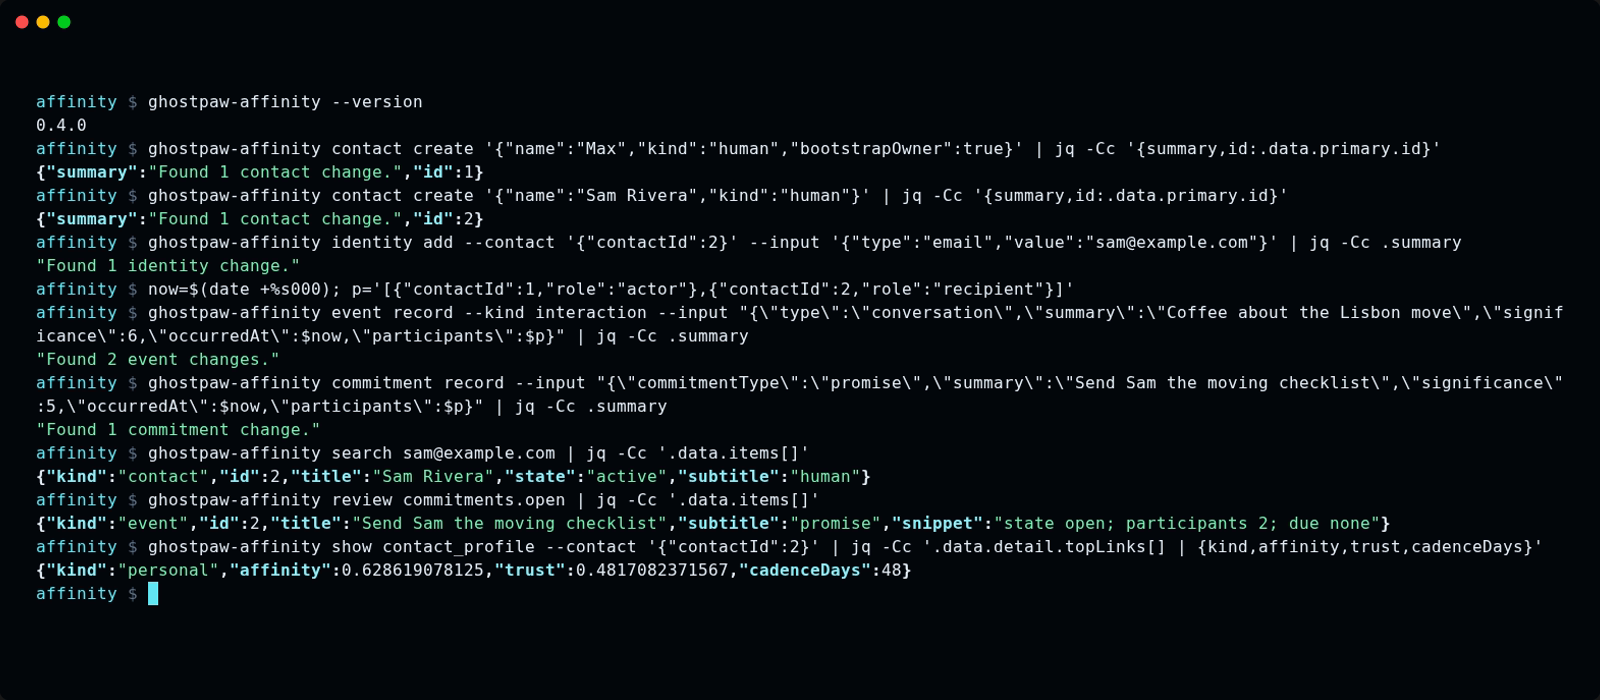
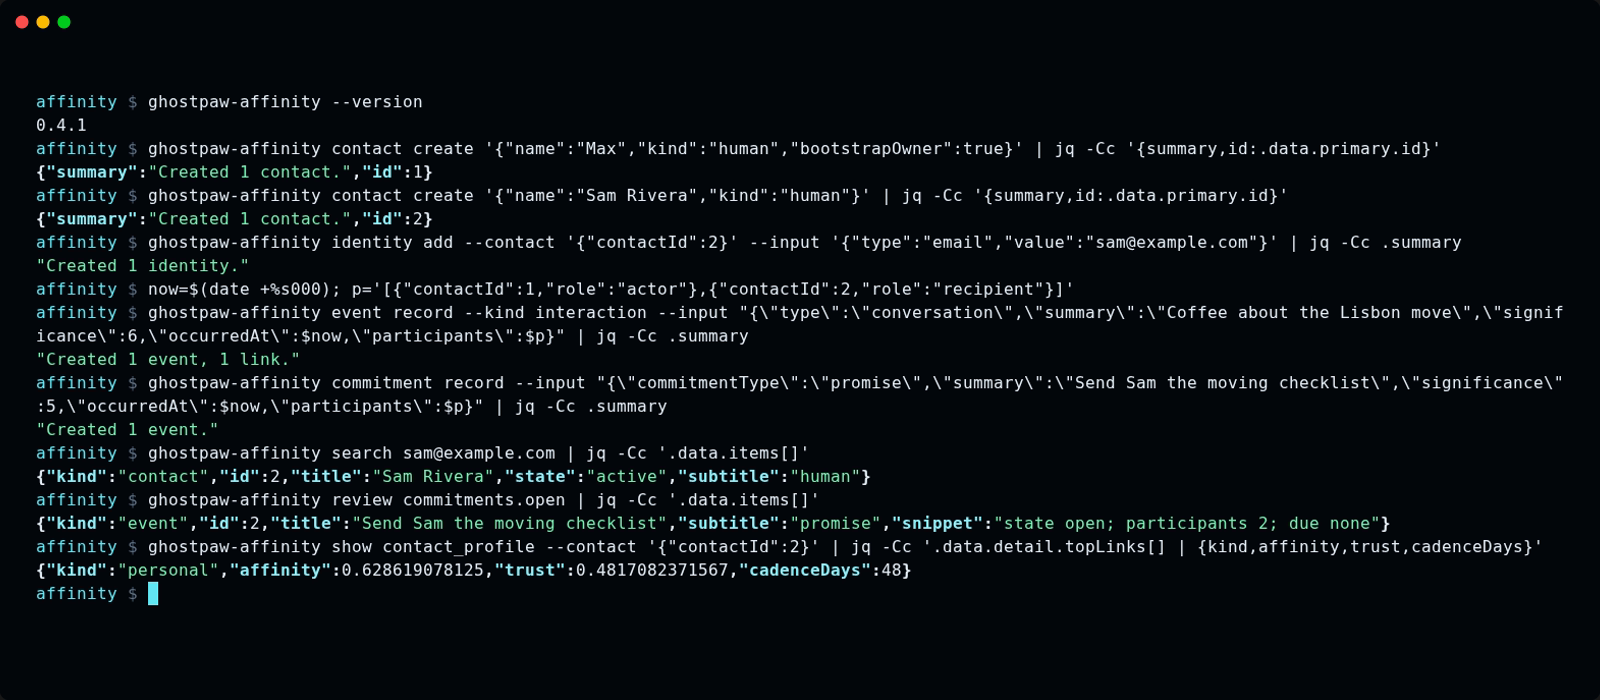
docs: re-record the terminal session with 0.4.1
Mutation summaries now name what changed, so the screenshot, GIF and
site image show the 0.4.1 output. Kicker and JSON-LD version 0.4.1.

diff --git a/site/release/index.html b/site/release/index.html
@@ -30,7 +30,7 @@
 <main>
   <section class=hero aria-labelledby=hero-title>
     <div class=hero-copy>
-      <p class=kicker><code>@ghostpaw/affinity</code> <span class=ver>0.4.0</span></p>
+      <p class=kicker><code>@ghostpaw/affinity</code> <span class=ver>0.4.1</span></p>
       <h1 id=hero-title>Who have you been meaning to call?</h1>
       <p class=lede>affinity keeps the people your agent deals with, the promises made to them and the dates that matter in your SQLite file. It works out who is drifting from what happened, so nobody has to keep a list of who to call.</p>
       <div class=install>
@@ -233,8 +233,8 @@ read.listOpenCommitments(db).length
       <li>The binaries are not code signed. macOS builds carry an ad-hoc signature, so a browser download needs <code>xattr -d com.apple.quarantine ghostpaw-affinity</code>. Windows may show a SmartScreen warning for a browser download.</li>
     </ul>
     <figure class=shot>
-      <a href=https://raw.githubusercontent.com/GhostPawJS/affinity/main/docs/assets/cli.png><img src=./cli-1600-0bab07bca30b.webp srcset="./cli-800-29cad44d3324.webp 800w, ./cli-1600-0bab07bca30b.webp 1600w" sizes="(min-width: 76rem) 72rem, 100vw" width=1600 height=700 decoding=async alt="Terminal session with ghostpaw-affinity 0.4.0: --version prints 0.4.0, contact create makes the owner Max and Sam Rivera, identity add attaches sam@example.com, event record and commitment record log a coffee and a promise, search by email finds Sam, review commitments.open lists the open promise, and show contact_profile prints the derived personal link with affinity 0.63, trust 0.48 and a 48 day cadence." loading=lazy></a>
-      <figcaption>A session with the 0.4.0 linux-x64 binary against a fresh database, output piped through jq. Open the image for full size.</figcaption>
+      <a href=https://raw.githubusercontent.com/GhostPawJS/affinity/main/docs/assets/cli.png><img src=./cli-1600-40372231f5df.webp srcset="./cli-800-ea999d0be183.webp 800w, ./cli-1600-40372231f5df.webp 1600w" sizes="(min-width: 76rem) 72rem, 100vw" width=1600 height=700 decoding=async alt="Terminal session with ghostpaw-affinity 0.4.1: --version prints 0.4.1, contact create makes the owner Max and Sam Rivera, identity add attaches sam@example.com, event record and commitment record log a coffee and a promise, search by email finds Sam, review commitments.open lists the open promise, and show contact_profile prints the derived personal link with affinity 0.63, trust 0.48 and a 48 day cadence." loading=lazy></a>
+      <figcaption>A session with the 0.4.1 linux-x64 binary against a fresh database, output piped through jq. Open the image for full size.</figcaption>
     </figure>
     <p class=links><a class=more href=https://github.com/GhostPawJS/affinity/releases/tag/v0.4.0>Release v0.4.0</a><a href=https://github.com/GhostPawJS/affinity#install>Install notes in the README</a><a href=https://cli.github.com/manual/gh_attestation_verify>gh attestation verify</a></p>
   </section>
@@ -287,6 +287,6 @@ const radar = read.listRadar(db);</code></pre>
 
 
 
-<script type=application/ld+json>{"@context":"https://schema.org","@graph":[{"@type":"SoftwareSourceCode","author":{"@id":"https://ghostpaw.dev/#org","@type":"Organization","name":"GhostPaw"},"codeRepository":"https://github.com/GhostPawJS/affinity","description":"@ghostpaw/affinity keeps contacts, promises and yearly dates in your own SQLite file and derives rank, trust and drift from what happened. Local MCP server, 12 tools, Node.js 24, zero dependencies, MIT.","license":"https://opensource.org/license/mit","name":"@ghostpaw/affinity","programmingLanguage":"TypeScript","runtimePlatform":"Node.js 24","version":"0.4.0"}]}</script><script>document.documentElement.classList.add("js");
+<script type=application/ld+json>{"@context":"https://schema.org","@graph":[{"@type":"SoftwareSourceCode","author":{"@id":"https://ghostpaw.dev/#org","@type":"Organization","name":"GhostPaw"},"codeRepository":"https://github.com/GhostPawJS/affinity","description":"@ghostpaw/affinity keeps contacts, promises and yearly dates in your own SQLite file and derives rank, trust and drift from what happened. Local MCP server, 12 tools, Node.js 24, zero dependencies, MIT.","license":"https://opensource.org/license/mit","name":"@ghostpaw/affinity","programmingLanguage":"TypeScript","runtimePlatform":"Node.js 24","version":"0.4.1"}]}</script><script>document.documentElement.classList.add("js");
 </script><script type=module>var g=[{rows:[{k:"Jun",v:"0.347 · drifting",w:.8674999999999999,t:"violet"},{k:"Ada",v:"0.124 · routine",w:.31},{k:"Ren",v:"0.000 · routine",w:0},{k:"Open promises",v:"none"},{k:"Next 60 days",v:"nothing"}],foot:"read.listRadar(db), highest drift first"},{rows:[{k:"Ada",v:"0.124 · routine",w:.31},{k:"Ren",v:"0.000 · routine",w:0},{k:"Jun",v:"0.000 · seen today",w:0,t:"cyan"},{k:"Open promises",v:"none"},{k:"Next 60 days",v:"nothing"}],foot:"Jun's cadence is now 17 days instead of 14."},{rows:[{k:"Ada",v:"0.124 · routine",w:.31},{k:"Ren",v:"0.000 · routine",w:0},{k:"Jun",v:"0.000 · seen today",w:0,t:"cyan"},{k:"Open promises",v:"1 · notes for Ren",t:"violet"},{k:"Next 60 days",v:"nothing"}],foot:"Ren's trust: 0.713 before the promise, 0.669 after."},{rows:[{k:"Ada",v:"0.124 · routine",w:.31},{k:"Ren",v:"0.000 · routine",w:0},{k:"Jun",v:"0.000 · seen today",w:0,t:"cyan"},{k:"Open promises",v:"1 · notes for Ren",t:"alarm"},{k:"Next 60 days",v:"nothing"}],foot:"Refused. The promise is still open."},{rows:[{k:"Ada",v:"0.124 · routine",w:.31},{k:"Ren",v:"0.000 · routine",w:0},{k:"Jun",v:"0.000 · seen today",w:0,t:"cyan"},{k:"Open promises",v:"none · kept",t:"ward"},{k:"Next 60 days",v:"nothing"}],foot:"Ren's trust stays at 0.669."},{rows:[{k:"Ada",v:"0.124 · routine",w:.31},{k:"Ren",v:"0.000 · routine",w:0},{k:"Jun",v:"0.000 · seen today",w:0,t:"cyan"},{k:"Open promises",v:"none · kept",t:"ward"},{k:"Next 60 days",v:"Jun's birthday, 12 Nov",t:"cyan"}],foot:"read.listUpcomingDates(db, { horizonDays: 60 })"}];(()=>{let r=document.getElementById("state-list"),y=document.getElementById("state-foot"),s=Array.from(document.querySelectorAll(".step")),k=document.getElementById("reset"),w=document.getElementById("run-status");if(!r||!s.length)return;let c=!matchMedia("(prefers-reduced-motion: reduce)").matches,o=0;function d(t){let n=g[t];r.textContent="";for(let e of n.rows){let a=document.createElement("li");e.t&&(a.className="t-"+e.t);let l=document.createElement("span");l.className="k",l.textContent=e.k;let m=document.createElement("span");if(m.className="v",m.textContent=e.v,a.append(l,m),e.w!=null){let f=document.createElement("span");f.className="bar";let p=document.createElement("i");f.append(p),a.append(f);let h=Math.max(0,Math.min(1,e.w))*100+"%",v=r.dataset.prev&&JSON.parse(r.dataset.prev)[e.k];p.style.width=c&&v!=null?v:h,c&&v!=null&&requestAnimationFrame(()=>requestAnimationFrame(()=>{p.style.width=h}))}r.append(a)}let i={};for(let e of n.rows)e.w!=null&&(i[e.k]=Math.max(0,Math.min(1,e.w))*100+"%");r.dataset.prev=JSON.stringify(i),y&&(y.textContent=n.foot||"")}function u(){s.forEach((t,n)=>{t.classList.toggle("done",n<o),t.classList.toggle("next",n===o)}),w&&(w.textContent=o<s.length?"Step "+(o+1)+" of "+s.length+" is next.":"All "+s.length+" steps replayed.")}s.forEach((t,n)=>{t.querySelector(".run-btn").addEventListener("click",()=>{if(n!==o)return;o=n+1,d(o),u(),t.classList.contains("refused")&&c&&(t.classList.add("flash"),t.addEventListener("animationend",()=>t.classList.remove("flash"),{once:!0}));let e=s[o]&&s[o].querySelector(".run-btn"),a=t.querySelector(".result");a&&(a.setAttribute("tabindex","-1"),a.focus({preventScroll:!0})),e&&e.setAttribute("aria-describedby","run-status")})}),k&&k.addEventListener("click",()=>{o=0,r.dataset.prev="",d(0),u(),s[0].querySelector(".run-btn").focus()}),d(0),u(),document.querySelectorAll(".copy").forEach(t=>{t.addEventListener("click",async()=>{let n=document.getElementById(t.dataset.copy);try{await navigator.clipboard.writeText(n.value)}catch{n.select(),document.execCommand("copy")}let i=t.textContent;t.textContent="Copied",setTimeout(()=>{t.textContent=i},1400)})})})();
 </script><script defer src=https://static.cloudflareinsights.com/beacon.min.js data-cf-beacon='{"token": "eb094a31847f4b1b96558586692a6f73"}'></script></body></html>

diff --git a/site/concept.md b/site/concept.md
@@ -128,7 +128,7 @@ Panes on the void: panel ground, 1px rule border, a 14px chamfer top right, a 3p
 | --- | --- | --- | --- |
 | hero radar | protagonist | a circular radar scope in thin cyan light with a sweep wedge, a ghost paw print at its centre, three nodes, the farthest violet and drifting outward; no text, no faces V026 V036 | generated |
 | ties graph | explanation | hexagon nodes joined by cyan threads of different weight, one thin violet thread fading; ties and their strength V002 | generated |
-| terminal session | evidence | real output of the 0.4.0 linux-x64 binary against a fresh database, recorded with vhs in the void/spectral palette; never retouched | recorded |
+| terminal session | evidence | real output of the 0.4.1 linux-x64 binary against a fresh database, recorded with vhs in the void/spectral palette; never retouched | recorded |
 | share card | share preview | the hero art with the headline at 1200×630 | generated art, rendered from HTML |
 
 ## Motion
@@ -149,3 +149,4 @@ Reduced motion: no sweep; bars and results change in place.
 - 2026-10-24: first concept from the 2026-10-24 research batch (60 voices, 12 peers); drift radar chosen; replay of a real affinity 0.3.0 run.
 - 2026-10-24: depth pass (10 more voices, now 70); replay re-run against the current release; import time re-measured; comparison section added; page moved to https://affinity.ghostpaw.dev/.
 - 2026-10-24: portal chrome pass. Shared top bar (GhostPaw/<lib>, Live demo or Docs, GitHub, npm), version badge, footer row of all seven libraries; sibling links row dropped from the start section; the ruled grid on the page ground was replaced by one radial glow (lfm 0.1.9 rejects ruled ground textures); share card relabelled GhostPaw/<lib> with the install line.
+- 2026-10-27: affinity 0.4.1. Terminal session re-recorded with the 0.4.1 binary, whose mutation summaries now say what changed (for example "Created 1 contact."). Kicker and JSON-LD version 0.4.1. Install lines, sizes and the release link still point at v0.4.0 assets, which are unchanged in shape. Other sections unchanged.

diff --git a/README.md b/README.md
@@ -110,9 +110,9 @@ curl -fsSL https://raw.githubusercontent.com/GhostPawJS/affinity/main/install.sh
 irm https://raw.githubusercontent.com/GhostPawJS/affinity/main/install.ps1 | iex
 ```
 
-A session with the 0.4.0 linux-x64 binary against a fresh database (output piped through `jq` to keep it short):
+A session with the 0.4.1 linux-x64 binary against a fresh database (output piped through `jq` to keep it short):
 
-![ghostpaw-affinity 0.4.0: version, contact create, identity add, event and commitment record, search, review commitments.open and show contact_profile](https://raw.githubusercontent.com/GhostPawJS/affinity/main/docs/assets/cli.png)
+![ghostpaw-affinity 0.4.1: version, contact create, identity add, event and commitment record, search, review commitments.open and show contact_profile](https://raw.githubusercontent.com/GhostPawJS/affinity/main/docs/assets/cli.png)
 
 The same session as an [animated GIF](https://raw.githubusercontent.com/GhostPawJS/affinity/main/docs/assets/cli.gif).
 
